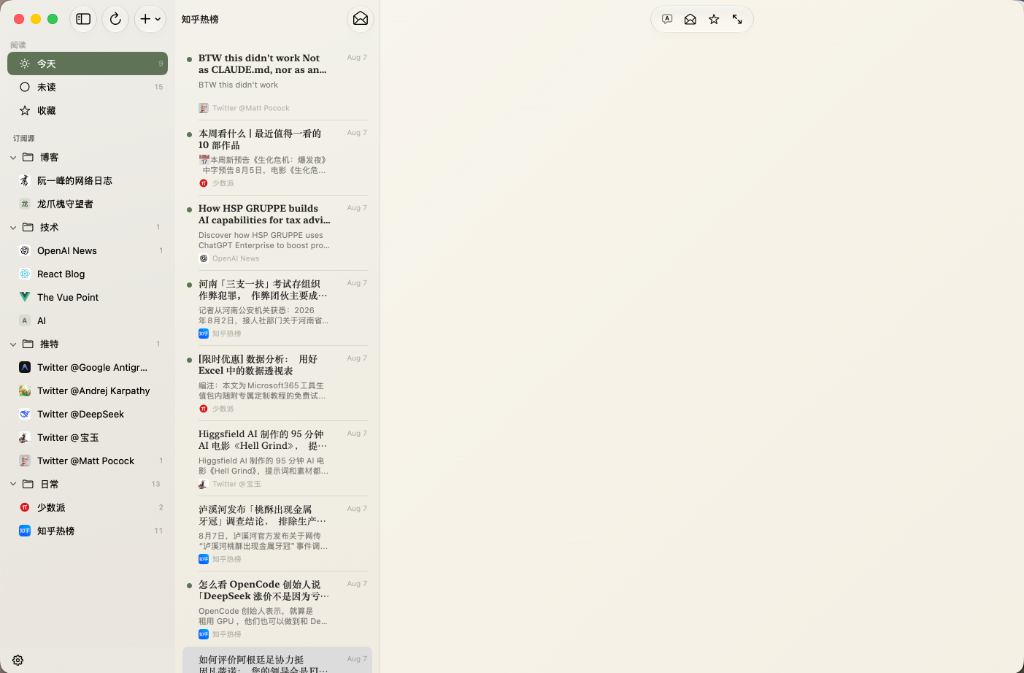
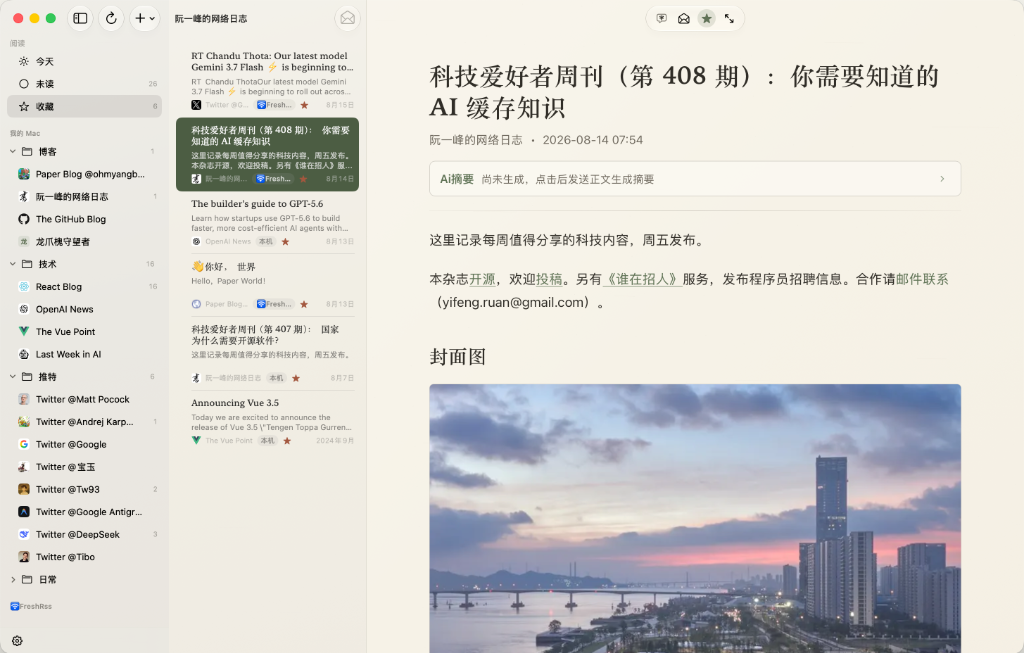
chore: update website branding, real-time github stars, and new app screenshots

diff --git a/website/en/index.html b/website/en/index.html
@@ -12,15 +12,19 @@
   <link rel="icon" type="image/png" href="../assets/app-icon.png" />
   <link rel="stylesheet" href="../styles.css" />
   <script src="../scramble-title.js" defer></script>
+  <script src="../github-stars.js" defer></script>
 </head>
 <body>
   <header class="site-header">
-    <a href="./" class="brand"><img src="../assets/app-icon.png" alt="PaperRss icon" /><div class="brand-text"><span class="brand-name">PaperRss</span><span class="brand-tag">PAPER & AI READER</span></div></a>
+    <a href="./" class="brand"><img src="../assets/app-icon.png" alt="PaperRss icon" /><div class="brand-text"><span class="brand-name">PaperRss</span><span class="brand-tag">Reading first, AI second</span></div></a>
     <nav class="site-nav"><a href="#features">Features</a><a href="#ai-assistant">AI Assistant</a><a href="#sponsor">Support</a><a href="#install">Install</a></nav>
     <div class="header-actions">
       <a class="language-switcher" href="../zh-CN/" lang="zh-CN" hreflang="zh-CN" onclick="localStorage.setItem('paperrss.locale','zh-CN')" aria-label="切换到简体中文">🌐 English</a>
-      <a href="https://github.com/ohmyangboy/PaperRss" class="btn-github">GitHub</a>
-      <a href="https://github.com/ohmyangboy/PaperRss/releases/latest" class="btn-download-primary">Download v1.3.0-beta.1</a>
+      <a href="https://github.com/ohmyangboy/PaperRss" class="btn-github" target="_blank" rel="noopener noreferrer" aria-label="GitHub Repository">
+        <span>GitHub</span>
+        <span class="gh-star-badge" aria-label="GitHub Star Count"><svg class="gh-star-icon" viewBox="0 0 16 16" width="12" height="12" fill="currentColor"><path d="M8 .25a.75.75 0 0 1 .673.418l1.882 3.815 4.21.612a.75.75 0 0 1 .416 1.279l-3.046 2.97.719 4.192a.75.75 0 0 1-1.088.791L8 12.347l-3.766 1.98a.75.75 0 0 1-1.088-.79l.72-4.194L.818 6.374a.75.75 0 0 1 .416-1.28l4.21-.611L7.327.668A.75.75 0 0 1 8 .25z"/></svg><span class="gh-star-count">16</span></span>
+      </a>
+      <a href="https://github.com/ohmyangboy/PaperRss/releases" class="btn-download-primary">Release Notes</a>
     </div>
   </header>
 

diff --git a/website/zh-CN/index.html b/website/zh-CN/index.html
@@ -12,18 +12,22 @@
   <link rel="icon" type="image/png" href="../assets/app-icon.png" />
   <link rel="stylesheet" href="../styles.css" />
   <script src="../scramble-title.js" defer></script>
+  <script src="../github-stars.js" defer></script>
 </head>
 <body>
   <header class="site-header">
     <a href="./" class="brand">
       <img src="../assets/app-icon.png" alt="PaperRss 图标" />
-      <div class="brand-text"><span class="brand-name">PaperRss</span><span class="brand-tag">PAPER & AI READER</span></div>
+      <div class="brand-text"><span class="brand-name">PaperRss</span><span class="brand-tag">Reading first, AI second</span></div>
     </a>
     <nav class="site-nav"><a href="#features">功能特性</a><a href="#ai-assistant">AI 助手</a><a href="#sponsor">赞赏支持</a><a href="#install">安装说明</a></nav>
     <div class="header-actions">
       <a class="language-switcher" href="../en/" lang="en" hreflang="en" onclick="localStorage.setItem('paperrss.locale','en')" aria-label="Switch to English">🌐 简体中文</a>
-      <a href="https://github.com/ohmyangboy/PaperRss" class="btn-github">GitHub 仓库</a>
-      <a href="https://github.com/ohmyangboy/PaperRss/releases/latest" class="btn-download-primary">下载 v1.3.0-beta.1</a>
+      <a href="https://github.com/ohmyangboy/PaperRss" class="btn-github" target="_blank" rel="noopener noreferrer" aria-label="GitHub 仓库">
+        <span>GitHub</span>
+        <span class="gh-star-badge" aria-label="GitHub 星标数"><svg class="gh-star-icon" viewBox="0 0 16 16" width="12" height="12" fill="currentColor"><path d="M8 .25a.75.75 0 0 1 .673.418l1.882 3.815 4.21.612a.75.75 0 0 1 .416 1.279l-3.046 2.97.719 4.192a.75.75 0 0 1-1.088.791L8 12.347l-3.766 1.98a.75.75 0 0 1-1.088-.79l.72-4.194L.818 6.374a.75.75 0 0 1 .416-1.28l4.21-.611L7.327.668A.75.75 0 0 1 8 .25z"/></svg><span class="gh-star-count">16</span></span>
+      </a>
+      <a href="https://github.com/ohmyangboy/PaperRss/releases" class="btn-download-primary">查看发布说明</a>
     </div>
   </header>
 

diff --git a/website/github-stars.js b/website/github-stars.js
@@ -1,0 +1,38 @@
+(function initGitHubStars() {
+  const cachedStars = sessionStorage.getItem('paperrss_gh_stars');
+  if (cachedStars) {
+    applyStars(cachedStars);
+  }
+
+  fetch('https://api.github.com/repos/ohmyangboy/PaperRss', {
+    headers: { 'Accept': 'application/vnd.github.v3+json' }
+  })
+    .then((response) => {
+      if (!response.ok) throw new Error('GitHub API response not ok');
+      return response.json();
+    })
+    .then((data) => {
+      if (data && typeof data.stargazers_count === 'number') {
+        const count = formatStars(data.stargazers_count);
+        sessionStorage.setItem('paperrss_gh_stars', count);
+        applyStars(count);
+      }
+    })
+    .catch(() => {
+      // Keep static fallback
+    });
+
+  function formatStars(count) {
+    if (count >= 1000) {
+      return (count / 1000).toFixed(1).replace(/\.0$/, '') + 'k';
+    }
+    return String(count);
+  }
+
+  function applyStars(count) {
+    const starElements = document.querySelectorAll('.gh-star-count');
+    starElements.forEach((el) => {
+      el.textContent = count;
+    });
+  }
+})();

diff --git a/website/styles.css b/website/styles.css
@@ -143,18 +143,41 @@ body {
 }
 
 .btn-github {
+  display: inline-flex;
+  align-items: center;
+  gap: 0.45rem;
   text-decoration: none;
   font-family: var(--font-mono);
   font-size: 0.82rem;
   color: var(--text-main);
   border: 1px solid var(--border-medium);
-  padding: 0.4rem 0.9rem;
+  padding: 0.36rem 0.7rem;
   border-radius: 6px;
-  transition: background 0.2s;
+  transition: background 0.2s, border-color 0.2s;
+  white-space: nowrap;
 }
 
 .btn-github:hover {
   background: rgba(0,0,0,0.05);
+}
+
+.gh-star-badge {
+  display: inline-flex;
+  align-items: center;
+  gap: 0.25rem;
+  background: rgba(28, 26, 23, 0.06);
+  padding: 0.1rem 0.45rem;
+  border-radius: 999px;
+  font-size: 0.74rem;
+  font-weight: 600;
+  color: var(--text-main);
+  line-height: 1.2;
+}
+
+.gh-star-icon {
+  width: 11px;
+  height: 11px;
+  fill: #d97706;
 }
 
 .btn-download-primary {
